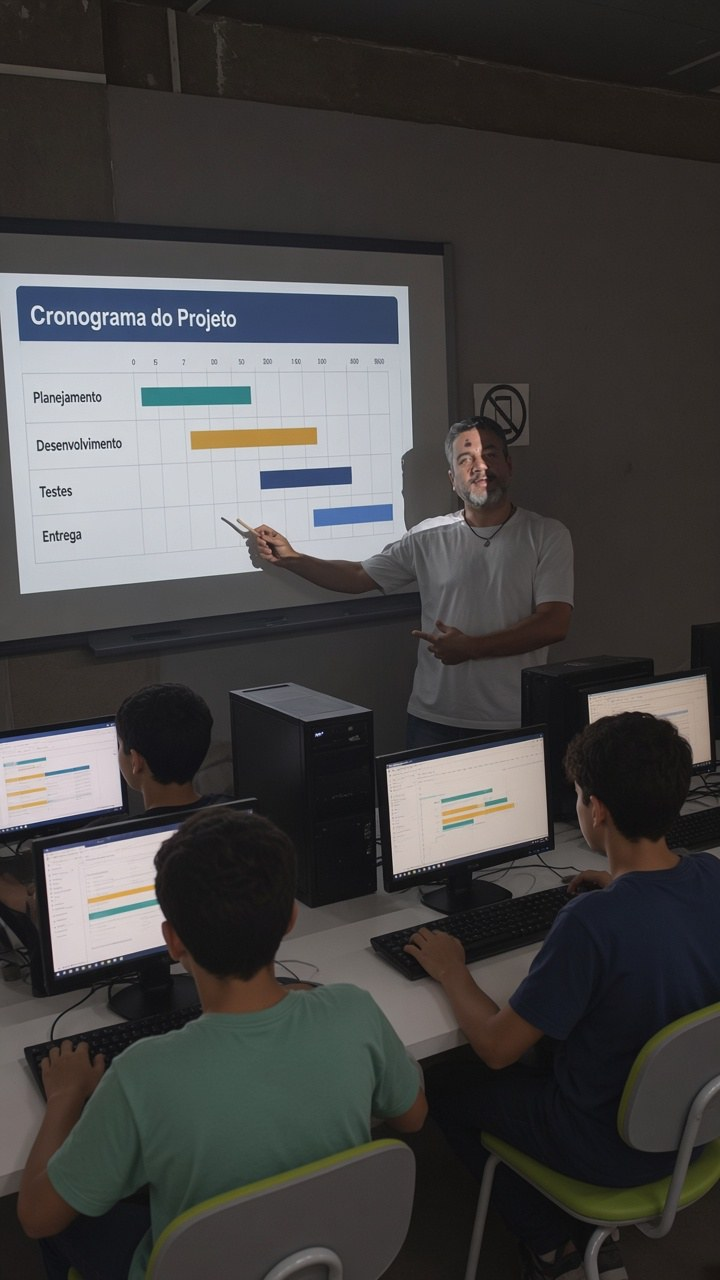
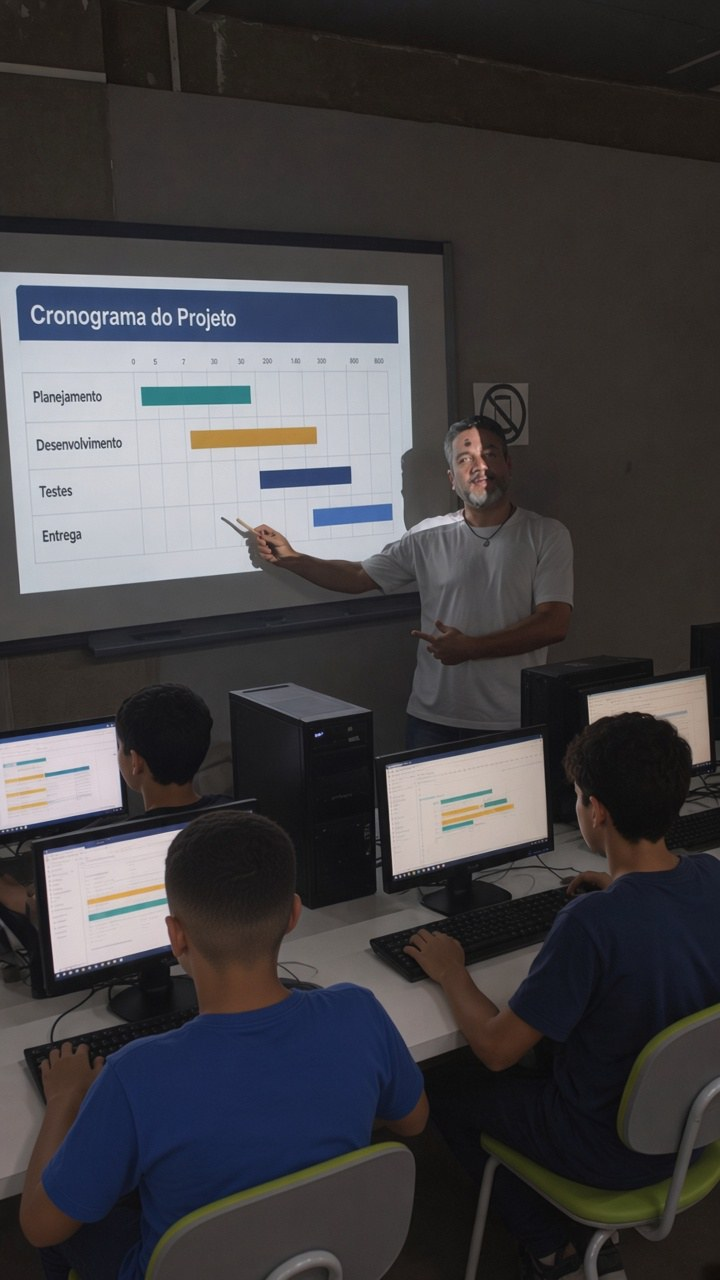
Troca o aluno de verde da esquerda pelo moço de azul na foto da aula.

diff --git a/index.html b/index.html
@@ -190,9 +190,9 @@
                 </div>
                 <div class="hero-visual">
                     <picture>
-                        <source srcset="assets/FotoSite.webp?v=aula6" type="image/webp">
+                        <source srcset="assets/FotoSite.webp?v=aula7" type="image/webp">
                         <img
-                            src="assets/FotoSite.jpg?v=aula6"
+                            src="assets/FotoSite.jpg?v=aula7"
                             alt="Paulo Teodoro Pinto Júnior (Papijunior) — aula de gestão de projetos com cronograma Gantt no PapiLAB"
                             width="720"
                             height="1280"

diff --git a/en/index.html b/en/index.html
@@ -187,9 +187,9 @@
                 </div>
                 <div class="hero-visual">
                     <picture>
-                        <source srcset="assets/FotoSite.webp?v=aula6" type="image/webp">
+                        <source srcset="assets/FotoSite.webp?v=aula7" type="image/webp">
                         <img
-                            src="assets/FotoSite.jpg?v=aula6"
+                            src="assets/FotoSite.jpg?v=aula7"
                             alt="Paulo Teodoro Pinto Júnior (papijunior) — teaching project management with a Gantt chart at PapiLAB"
                             width="720"
                             height="1280"
